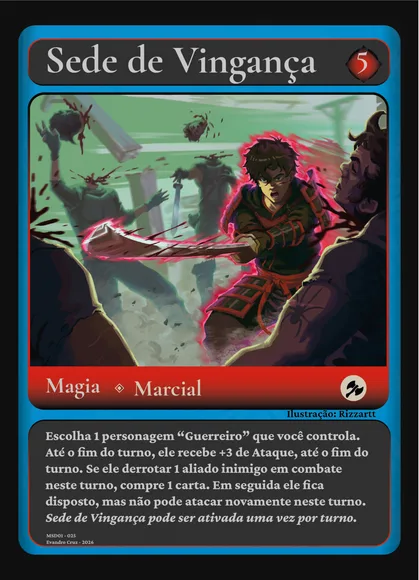
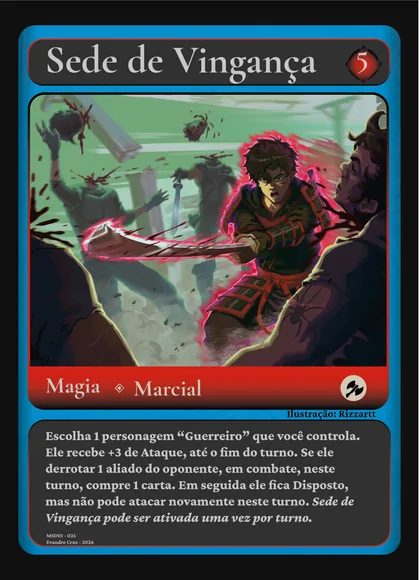
fix: update asset cache version to 2026-05-17-2 and enhance card definitions

Changed region(s): [[0.0931, 0.7759, 0.8687, 0.9]]

diff --git a/client/public/cards/cartas.js b/client/public/cards/cartas.js
@@ -324,7 +324,7 @@ name: 'Tamanduá Guardião', kind: 'ally', img: '/allies/layout-tamanduaguardiao
     name: 'Quebra-Aço', kind: 'spell', img: '/spell/layout-quebraaco.ai.png', cost: 1, classe: '', tipo: 'Magia', filiacao: 'Neutra', effect: 'destroy_equip', text: 'Destrua um equipamento em campo.'
   },
   {
-    name: 'Sede de Vingança', kind: 'spell', img: '/spell/layout-sedevinganca.ai.png', cost: 5, classe: '', tipo: 'Magia', filiacao: 'Marcial', effect: 'sede_vinganca', effectValue: 3, text: 'Escolha um Guerreiro aliado: +3 de Ataque até o fim do turno. Se ele derrotar um inimigo neste turno, compre 1 carta e deixe-o disposto. Esta magia não pode ser ativada novamente neste turno.'
+    name: 'Sede de Vingança', kind: 'spell', img: '/spell/layout-sedevinganca.ai.png', cost: 5, classe: '', tipo: 'Magia', filiacao: 'Marcial', effect: 'sede_vinganca', effectValue: 3, text: 'Escolha 1 personagem Guerreiro que você controla. Ele recebe +3 de ataque, até o fim do turno. Se ele derrotar 1 Aliado do oponente, em combate, neste turno, compre 1 carta. Em seguida ele fica Disposto, mas não pode atacar novamente neste turno. Sede de Vingança pode ser ativada uma vez por turno.'
   },
   {
     name: 'Gladiador Implacável', kind: 'ally', img: '/allies/layout-gladiadorimplacavel.ai.png', cost: 4, classe: 'Guerreiro', tipo: 'Humano', filiacao: 'Marcial', ac: 1, hp: 5, maxHp: 5, damage: 3, atkBonus: 3, keywords: [], effect: 'buff_on_kill', effectValue: { atk: 1, ac: 1 }, text: 'Quando este Aliado vencer um inimigo em combate e enviá-lo para o cemitério, coloque 1 marcador "Sangue" neste aliado. Ele recebe +1 de Ataque e +1 de Resistência para cada marcador Sangue nele.'

diff --git a/client/public/ui/decks_salvos.html b/client/public/ui/decks_salvos.html
@@ -558,7 +558,7 @@
 		</section>
 	</div>
 
-	<script src="../cards/cartas.js?v=2026-05-17-1"></script>
+	<script src="../cards/cartas.js?v=2026-05-17-2"></script>
 	<script src="../mobile.js"></script>
 	<script>
 function initFirebaseCompatLocal(){
@@ -689,7 +689,7 @@ function updateDeckCount(n){
 	if (el) el.textContent = `${n} deck${n === 1 ? '' : 's'} salvo${n === 1 ? '' : 's'}`;
 }
 
-const ASSET_CACHE_VERSION = '2026-05-17-1';
+const ASSET_CACHE_VERSION = '2026-05-17-2';
 
 function withAssetVersion(url) {
 	try {

diff --git a/client/public/ui/deckbuilder.html b/client/public/ui/deckbuilder.html
@@ -760,7 +760,7 @@
     </div>
   </div>
 
-  <script src="../cards/cartas.js?v=2026-05-17-1"></script>
+  <script src="../cards/cartas.js?v=2026-05-17-2"></script>
   <script>
     const CARD_BACK_IMAGE = 'layout-background.ai.png';
     const BASE_CARD_POOL = (window.CARD_DEFS || []).filter(card => {
@@ -879,7 +879,7 @@
       return String(value || '');
     }
 
-    const ASSET_CACHE_VERSION = '2026-05-17-1';
+    const ASSET_CACHE_VERSION = '2026-05-17-2';
 
     function withAssetVersion(url) {
       try {

diff --git a/client/src/pages/game.ts b/client/src/pages/game.ts
@@ -79,7 +79,7 @@ type LaneTransferSnapshot = {
 const cardDefs = (window as Window & { CARD_DEFS?: CardDef[] }).CARD_DEFS ?? [];
 const cardLookup = new Map<string, CardDef>();
 const CARD_BACK_ASSET = "ui/layout-background.ai.png";
-const ASSET_CACHE_VERSION = "2026-05-17-1";
+const ASSET_CACHE_VERSION = "2026-05-17-2";
 
 function envAliasesForCard(card: CardDef): string[] {
 	const normalizedName = normalizeCardId(String(card?.name || ""));

diff --git a/client/src/pages/cardsLab.ts b/client/src/pages/cardsLab.ts
@@ -47,7 +47,7 @@ const normalizedKind = (value: string | undefined): string => {
 };
 
 const cardDefs = (window as Window & { CARD_DEFS?: CardDef[] }).CARD_DEFS;
-const ASSET_CACHE_VERSION = "2026-05-17-1";
+const ASSET_CACHE_VERSION = "2026-05-17-2";
 
 const cards: LabCard[] = Array.isArray(cardDefs)
 	? cardDefs.map((def: CardDef, index: number) => ({ id: `c-${index}`, def }))
